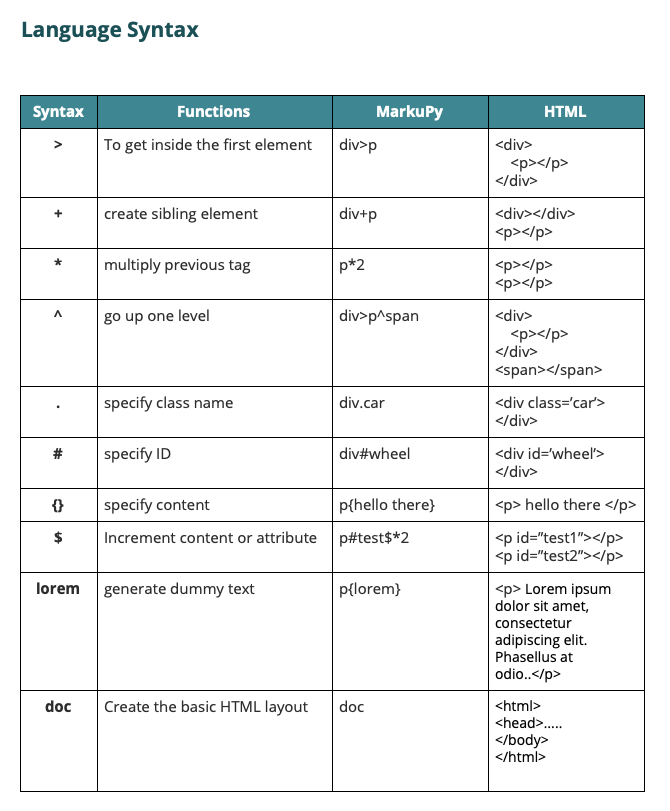
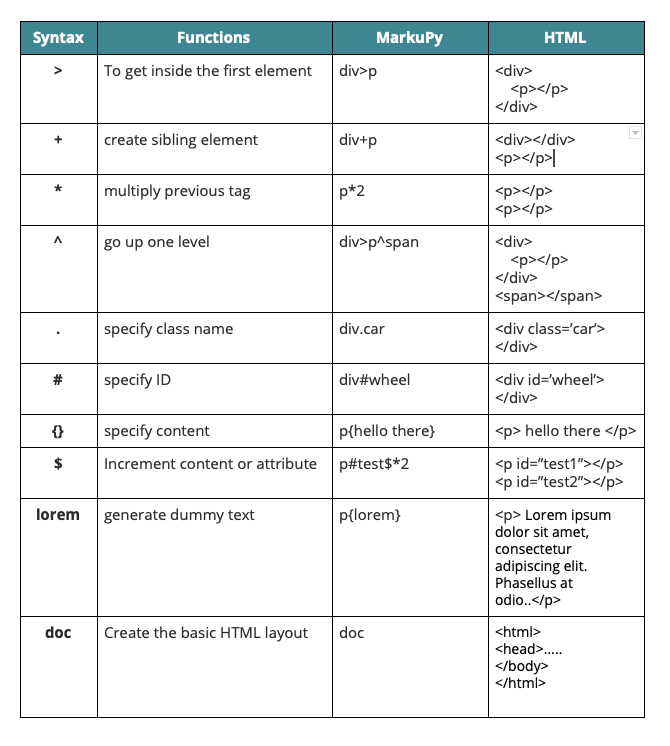
updated README

diff --git a/README.md b/README.md
@@ -13,10 +13,16 @@ Team members:
 
 ## Example
 Below is a simple example.
+
 ![demo](docs/demo.gif)
+
 [Longer Demo Video](https://drive.google.com/file/d/1UGSovD3uagaxkWa0qcp_pNYbgIekuarx/view?usp=sharing)
 
 ## HTML Comparison
+To get a better understanding below is a comparison with HTML.
+![html vs markupy](docs/compare.png)
+
+## Language Syntax
 To get a better understanding below is a comparison with HTML.
 ![html vs markupy](docs/syntax.png)
 
